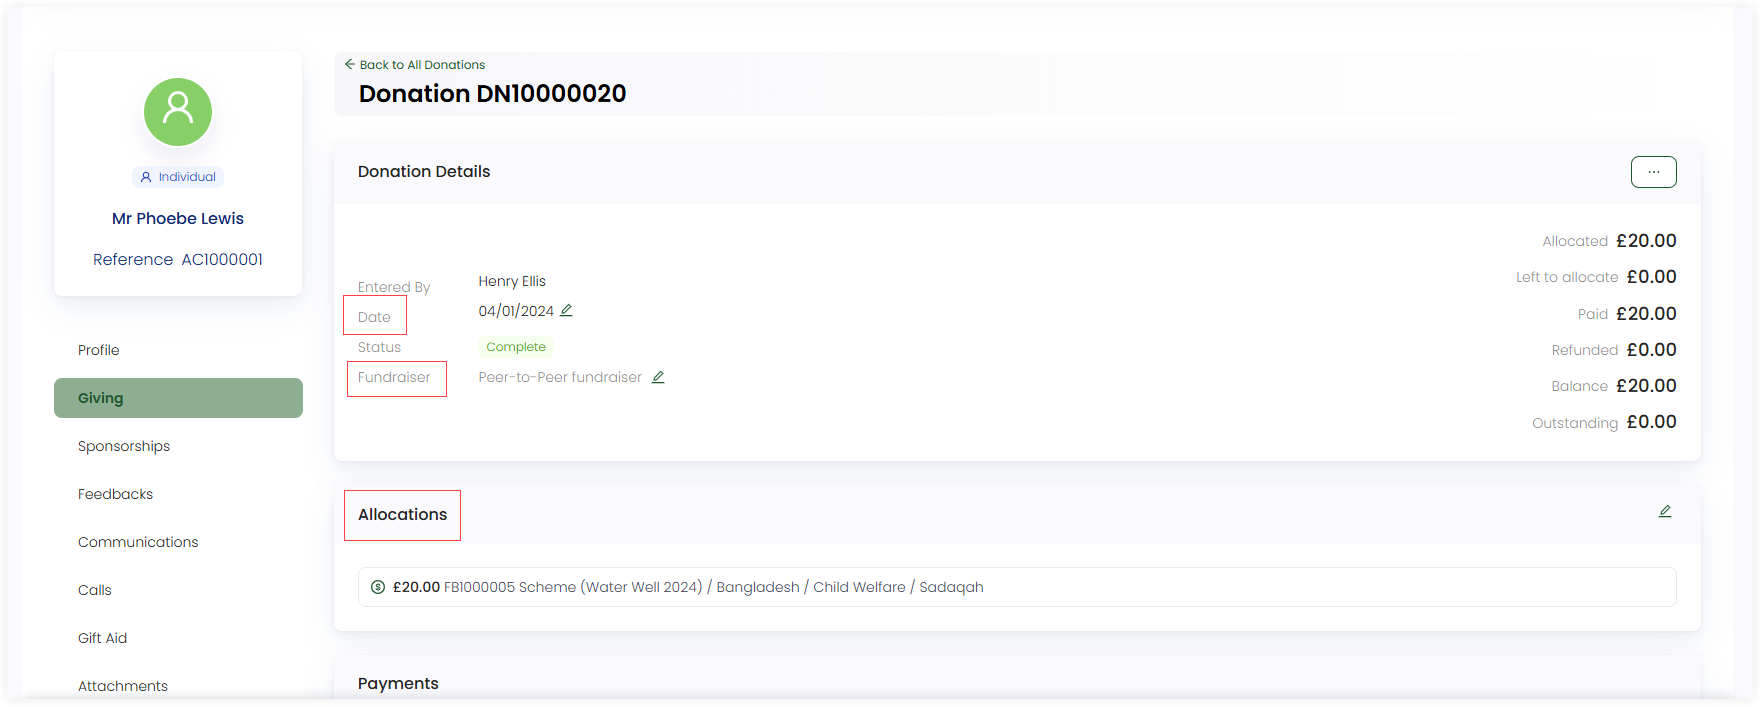
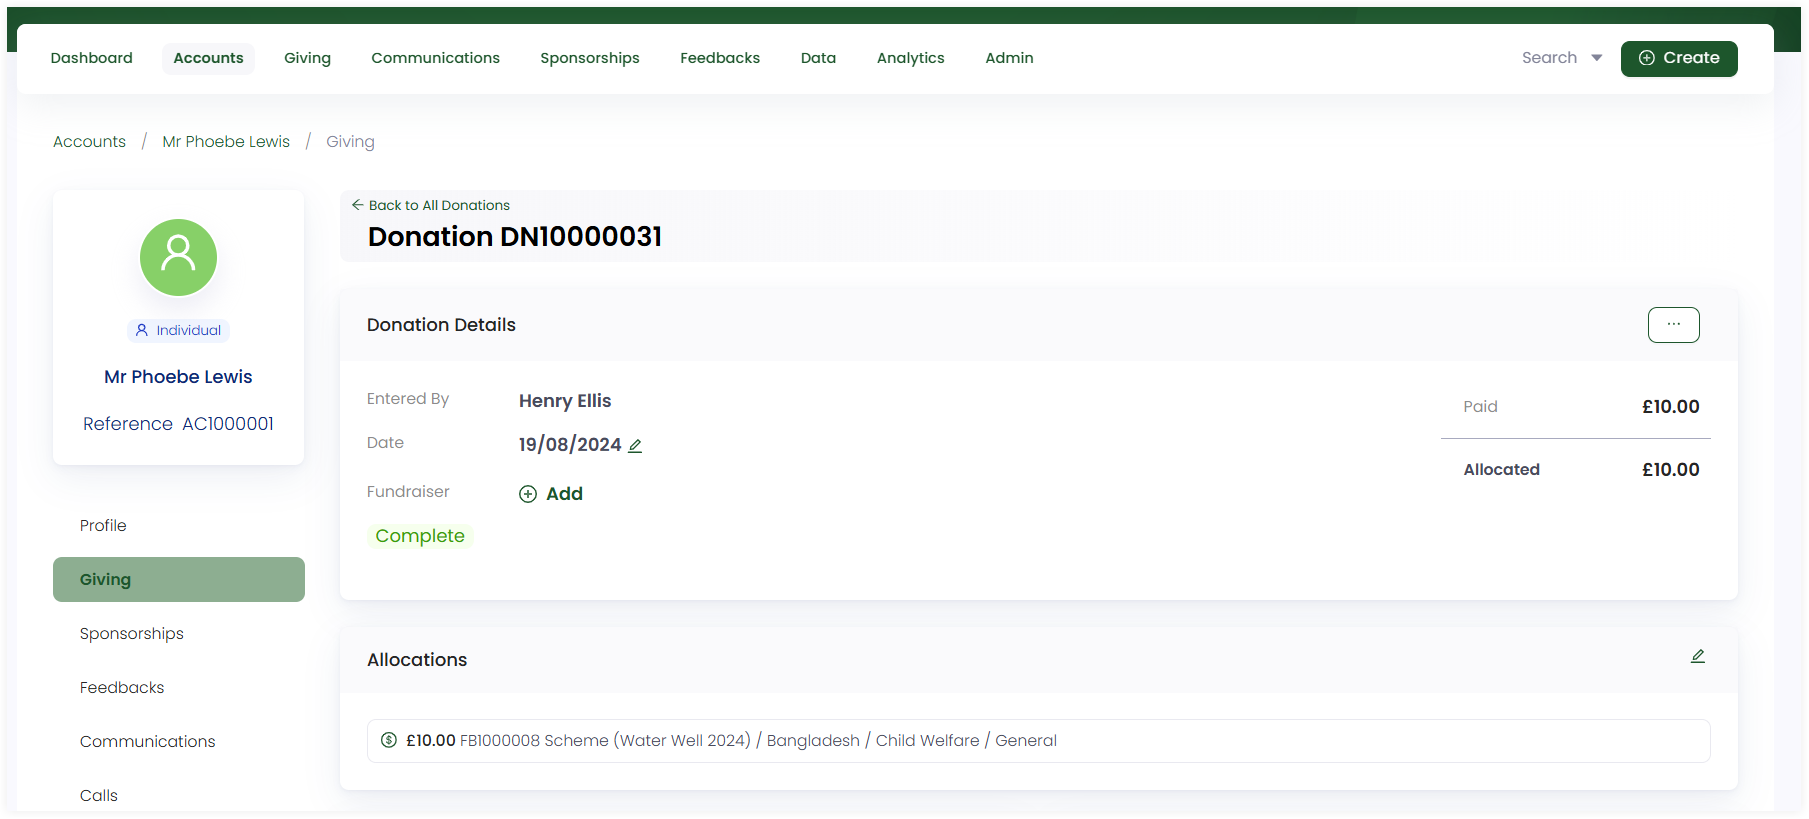
/docs/engage/donations/editing-donations/ (updating a screenshot + content)

diff --git a/docs/01-engage/04-donations/05-editing-donations/index.md b/docs/01-engage/04-donations/05-editing-donations/index.md
@@ -29,7 +29,7 @@ On the regular giving screen, click the **pen icon** infront of each of the foll
 
 :::tip
 - You can view a **donations list** that includes all the donations related to the particular regular giving. For e.g. *a 160 pound monthly donation made by Mr. Phoebe Lewis with status '**payment completed**' started on '**20-01-2023**' and so on*.  
-- You can click the **three dots (...)** under the **Details** section and choose to: 
+- You can click the **three dots (...)** under the **Details** section of a regular giving and choose to: 
 
     - Disable the installment actions function which was enabled before. 
     - Pause the regular giving for a while.
@@ -47,8 +47,13 @@ To edit a donation, click the **donation reference number** and navigate to the 
 - **Donation date:** Date on which the donation was processed.
 - **Allocations:** Existing allocation added to the donation.
 
-:::note
-If the donation has an **awaiting payment** or **payment failed** status, it can be removed via updating the donation's payment method and paying again.
-:::
-
 ![donation detail screen](./donation-detail-screen.png)
+
+:::tip
+- If the donation has an **awaiting payment** or **payment failed** status, it can be removed via updating the donation's payment method and paying again.
+- Furthermore, you can also view a:
+
+    - **Payments** section showing the recent payment made for a donation.
+    - **Receipts & Other Communications** section showing correspondence sent to the donor.
+    - **Attributions** section showing the different attributions added. 
+:::
